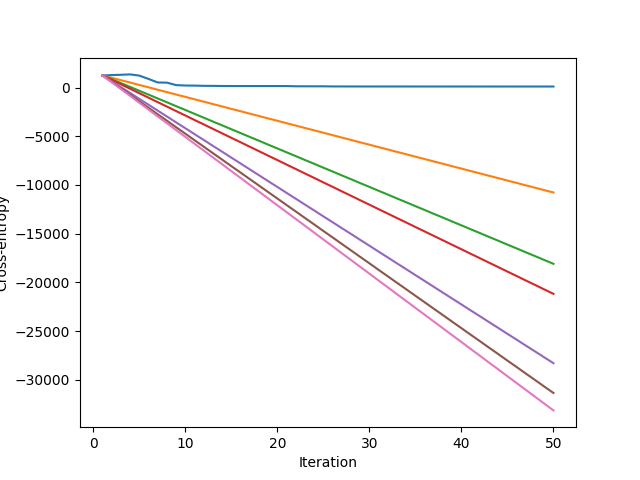
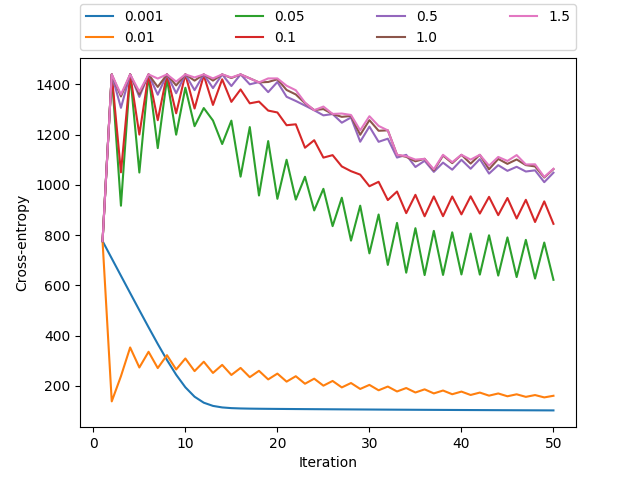
use numpy library to speed up operations, add plot for part2 2a

diff --git a/homework3/sonar.py b/homework3/sonar.py
@@ -6,10 +6,9 @@
 #
 
 import matplotlib.pyplot as plt
-import csv
-import heapq
 import math
 import pandas as pd
+import numpy as np
 
 class logisticRegressionForSonar(object):
     def __init__(self):
@@ -49,19 +48,25 @@ class logisticRegressionForSonar(object):
 
         # Update wi
         newWeights = []
+
+        # an array that contains all (r^t - y^t)
+        diff = self.data.iloc[:, -1] - self.predictions
+
         for wi in range(len(self.weights)):
-            sum = 0
-            for index, row in self.data.iterrows():
-                sum += (row.iat[-1] - self.predictions[index]) * row.iat[wi]
+            # sum = 0
+            # for index, row in self.data.iterrows():
+            #     sum += (row.iat[-1] - self.predictions[index]) * row.iat[wi]
+
+            sum = np.sum(diff * self.data.iloc[:,wi])
             newW = self.weights[wi] + self.learningRate * sum
             newWeights.append(newW)
         self.weights = newWeights
 
         # Update w0
-        sum = 0
-        for index, row in self.data.iterrows():
-            sum += (row.iat[-1] - self.predictions[index])
-        self.weight0 += self.learningRate * sum
+        # sum = 0
+        # for index, row in self.data.iterrows():
+        #     sum += (row.iat[-1] - self.predictions[index])
+        self.weight0 += self.learningRate * np.sum(diff)
 
         self.crossEntropies.append(self.crossEntropy())
 
@@ -69,10 +74,22 @@ class logisticRegressionForSonar(object):
     def predict(self):
         results = []
         for index, row in self.data.iterrows():
-            prediction = self.weight0
-            for i in range(len(self.weights)):
-                prediction += self.weights[i] * row[i]
+            # prediction = self.weight0
+            # for i in range(len(self.weights)):
+            #     prediction += self.weights[i] * row[i]
+            # print("prediction 1 = " + str(prediction))
+
+            prediction = self.weight0 + np.dot(self.weights, row[:-1])
+
+            # The value of prediction might overflow
+            try:
+                prediction = 1.0 / (1.0 + math.exp(-prediction))
+            except OverflowError:
+                prediction = 0.0
+
             results.append(prediction)
+
+        # print(results)
 
         return results
 
@@ -102,20 +119,18 @@ class logisticRegressionForSonar(object):
         error = 0
 
         for index, row in self.data.iterrows():
-            if self.predictions[index] > 0:
-                p = 1
+            if self.predictions[index] > 0.5:
+                prediction = 1
             else:
-                p = 0
-            if p != row.iat[-1]:
+                prediction = 0
+            if prediction != row.iat[-1]:
                 error += 1
 
         return error / self.data.shape[0]
 
+    # compute the value of L2 norm of w
     def l2norm(self):
-        result = 0.0
-        for wi in self.weights:
-            result += wi * wi
-        return math.sqrt(result)
+        return math.sqrt(np.sum(np.dot(self.weights, self.weights)))
 
     def getSummary(self):
         print("------------------------------------------------")
@@ -125,32 +140,21 @@ class logisticRegressionForSonar(object):
         print("||w||2 = {0:f}".format(self.l2norm()))
 
 def main():
-    sonar = logisticRegressionForSonar()
-    for eta in (0.001, 0.01, 0.05, 0.1, 0.5, 1.0, 1.5):
+    for eta in [0.001, 0.01, 0.05, 0.1, 0.5, 1.0, 1.5]:
+    # for eta in [0.001, 1.5]:
+        sonar = logisticRegressionForSonar()
         sonar.setParams(50, eta)
         sonar.train()
         sonar.getSummary()
         i, c = sonar.getIterationAndCrossEntropy()
-        plt.plot(i, c)
-    # sonar.setParams(50, 0.001)
-    # sonar.train()
-    # i1, c1 = sonar.getIterationAndCrossEntropy()
-    # plt.plot(i1, c1, linewidth=0.5)
-
-    # sonar.setParams(50, 0.01)
-    # sonar.train()
-    # i2, c2 = sonar.getIterationAndCrossEntropy()
-    # print(i2)
-    # print(c2)
-    # plt.plot(i2, c2)
+        plt.plot(i, c, label=str(eta))
 
     plt.xlabel("Iteration")
     plt.ylabel("Cross-entropy")
+    plt.legend(bbox_to_anchor=(0., 1.02, 1., .102), loc=3, ncol=4, mode="expand", borderaxespad=0.)
     plt.show()
 
-    #
-    # sonar.setParams(50, 0.05)
-    # sonar.train()
 
 if __name__ == "__main__":
     main()
+
